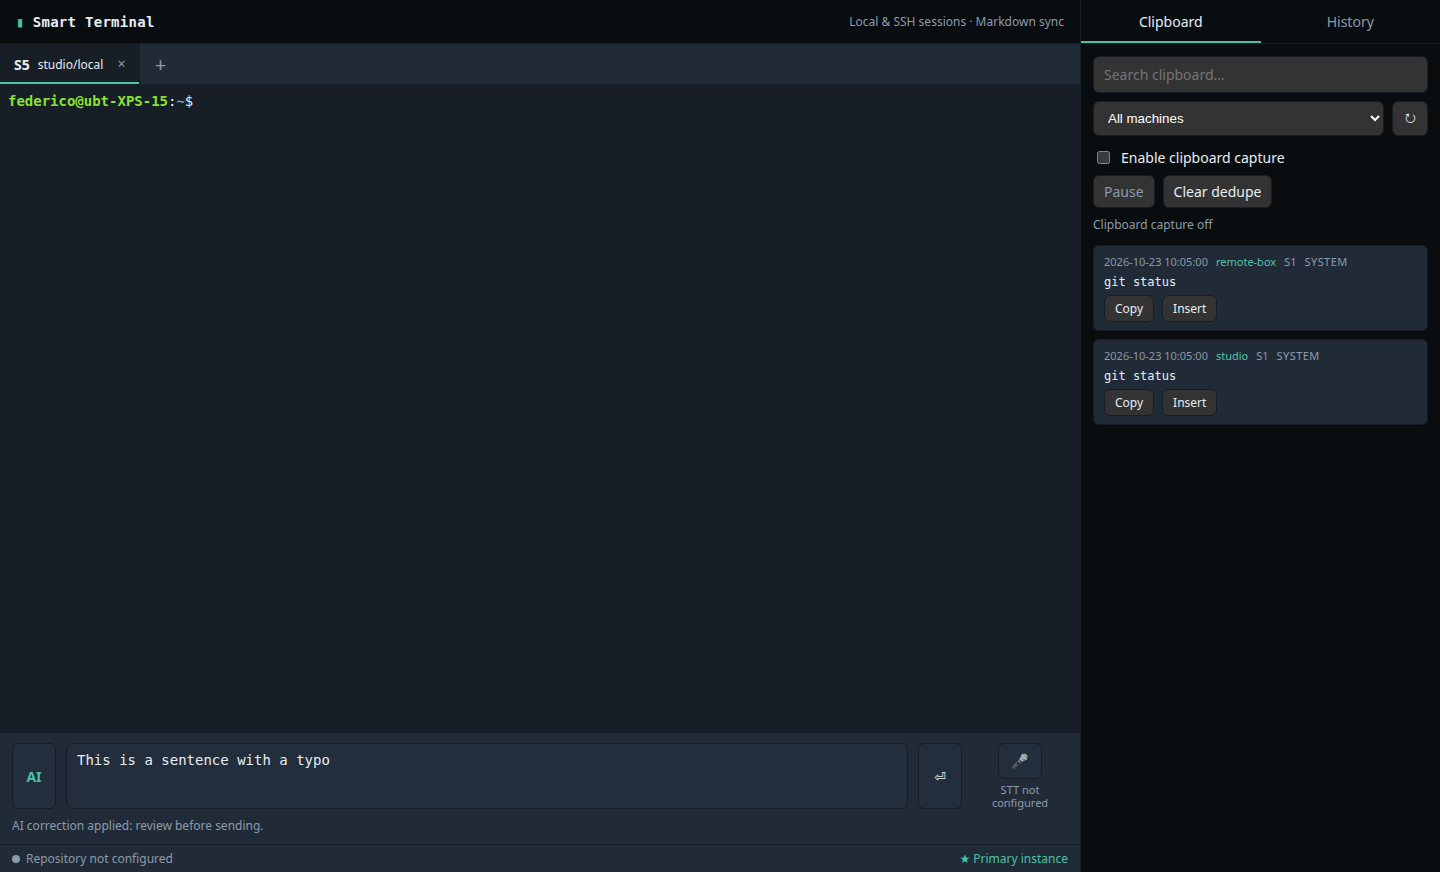
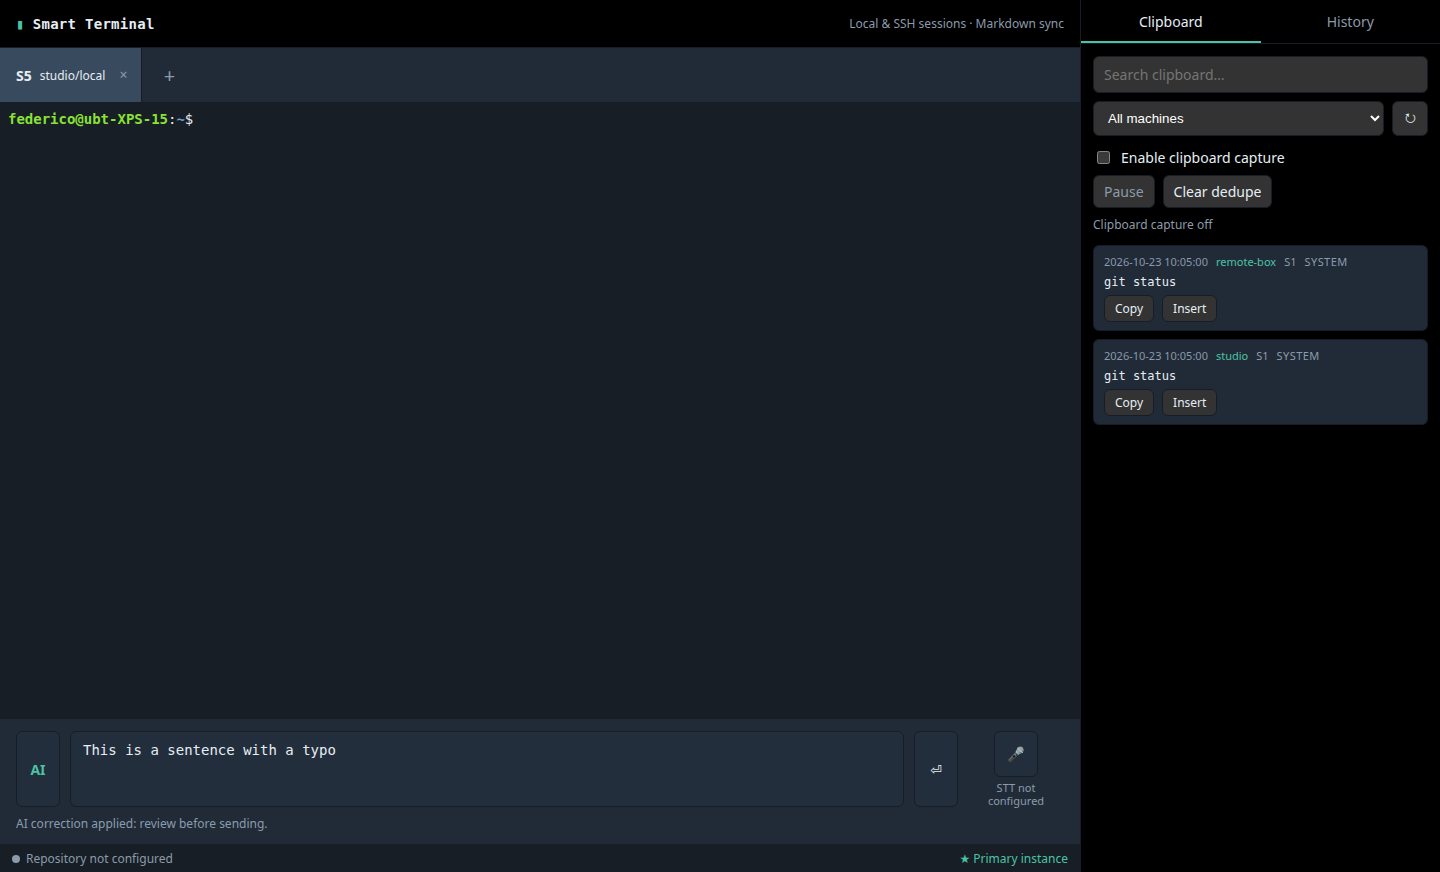
M08-T02: align shell with mock proportions and palette

diff --git a/apps/renderer/src/app/session-tabs/session-tabs.ts b/apps/renderer/src/app/session-tabs/session-tabs.ts
@@ -77,12 +77,12 @@ import type { TerminalSessionView } from '../session.model';
   `,
   styles: `
     :host { display: block; background: var(--tab-bg); border-bottom: 1px solid var(--border); }
-    .tabs { display: flex; align-items: stretch; height: 40px; min-width: 0; }
+    .tabs { display: flex; align-items: stretch; height: 54px; min-width: 0; }
     .tab {
-      display: flex; align-items: center; gap: 8px; min-width: 0; max-width: 220px; padding: 0 8px 0 14px;
+      display: flex; align-items: center; gap: 8px; min-width: 0; max-width: 220px; padding: 0 8px 0 16px;
       border-right: 1px solid var(--border); color: var(--text-muted); cursor: pointer; white-space: nowrap;
     }
-    .tab--active { background: var(--terminal-bg); color: var(--text); box-shadow: inset 0 -2px 0 var(--accent); }
+    .tab--active { background: var(--tab-active); color: var(--text); }
     .tab--exited .tab-label { text-decoration: line-through; }
     .tab-label { font-weight: 600; }
     .tab-target { font-size: 12px; overflow: hidden; text-overflow: ellipsis; }
@@ -90,7 +90,7 @@ import type { TerminalSessionView } from '../session.model';
     .tab-close { color: var(--text-muted); border-radius: 4px; width: 20px; height: 20px; line-height: 1; }
     .tab-close:hover { background: var(--border); color: var(--text); }
     .plus-wrap { position: relative; display: flex; }
-    .plus { width: 40px; font-size: 20px; color: var(--text-muted); }
+    .plus { width: 54px; font-size: 20px; color: var(--text-muted); }
     .plus:hover { color: var(--accent); }
     .menu {
       position: absolute; top: 100%; left: 0; z-index: 10; min-width: 220px; display: flex; flex-direction: column;

diff --git a/apps/renderer/src/app/assisted-input/assisted-input.ts b/apps/renderer/src/app/assisted-input/assisted-input.ts
@@ -60,11 +60,11 @@ import { SttStore, appendTranscript, voiceLabel } from '../stt/stt-store';
     }
   `,
   styles: `
-    :host { display: block; flex: none; background: var(--tab-bg); border-top: 1px solid var(--border); padding: 10px 12px; }
+    :host { display: block; flex: none; background: var(--tab-bg); border-top: 1px solid var(--border); padding: 12px 16px; }
     .row { display: flex; align-items: stretch; gap: 10px; min-width: 0; }
     .editor {
-      flex: 1 1 0; min-width: 0; resize: none; background: var(--input-bg); border: 1px solid var(--border);
-      border-radius: 6px; padding: 8px 10px; font-family: var(--font-mono); font-size: 14px; overflow: auto;
+      flex: 1 1 0; min-width: 0; min-height: 76px; resize: none; background: var(--input-bg); border: 1px solid var(--border);
+      border-radius: 6px; padding: 10px 12px; font-family: var(--font-mono); font-size: 14px; overflow: auto;
     }
     .editor:focus { outline: 1px solid var(--accent); }
     .icon { background: var(--input-bg); border: 1px solid var(--border); border-radius: 6px; width: 44px; cursor: pointer; }

diff --git a/apps/renderer/src/app/header/app-header.ts b/apps/renderer/src/app/header/app-header.ts
@@ -14,7 +14,7 @@ import { ChangeDetectionStrategy, Component } from '@angular/core';
   `,
   styles: `
     :host { display: block; flex: none; }
-    .header { display: flex; align-items: center; justify-content: space-between; gap: 16px; height: 44px; padding: 0 16px;
+    .header { display: flex; align-items: center; justify-content: space-between; gap: 16px; height: 48px; padding: 0 16px;
       background: var(--sidebar-bg); border-bottom: 1px solid var(--border); }
     .brand { display: inline-flex; align-items: center; gap: 8px; font-family: var(--font-mono); font-weight: 600; letter-spacing: 0.02em; }
     .mark { color: var(--accent); }

diff --git a/apps/renderer/src/app/status-footer/status-footer.ts b/apps/renderer/src/app/status-footer/status-footer.ts
@@ -14,7 +14,7 @@ import { syncBadge } from '../session.model';
   `,
   styles: `
     :host { display: flex; flex: none; align-items: center; justify-content: space-between; height: 28px; padding: 0 12px;
-      background: var(--tab-bg); border-top: 1px solid var(--border); font-size: 12px; color: var(--text-muted); }
+      background: var(--terminal-bg); border-top: 1px solid var(--border); font-size: 12px; color: var(--text-muted); }
     .badge { display: inline-flex; align-items: center; gap: 6px; }
     .dot { width: 8px; height: 8px; border-radius: 50%; background: var(--accent); }
     [data-state='syncing'] .dot { background: #e3b341; }

diff --git a/apps/renderer/src/styles.css b/apps/renderer/src/styles.css
@@ -5,7 +5,8 @@
   --terminal-bg: #171e25;
   --tab-bg: #212b38;
   --input-bg: #222e3c;
-  --sidebar-bg: #0a0d10;
+  --sidebar-bg: #000000;
+  --tab-active: #384a5d;
   --card-bg: #333333;
   --surface: #212b38;
   --surface-raised: #222e3c;
